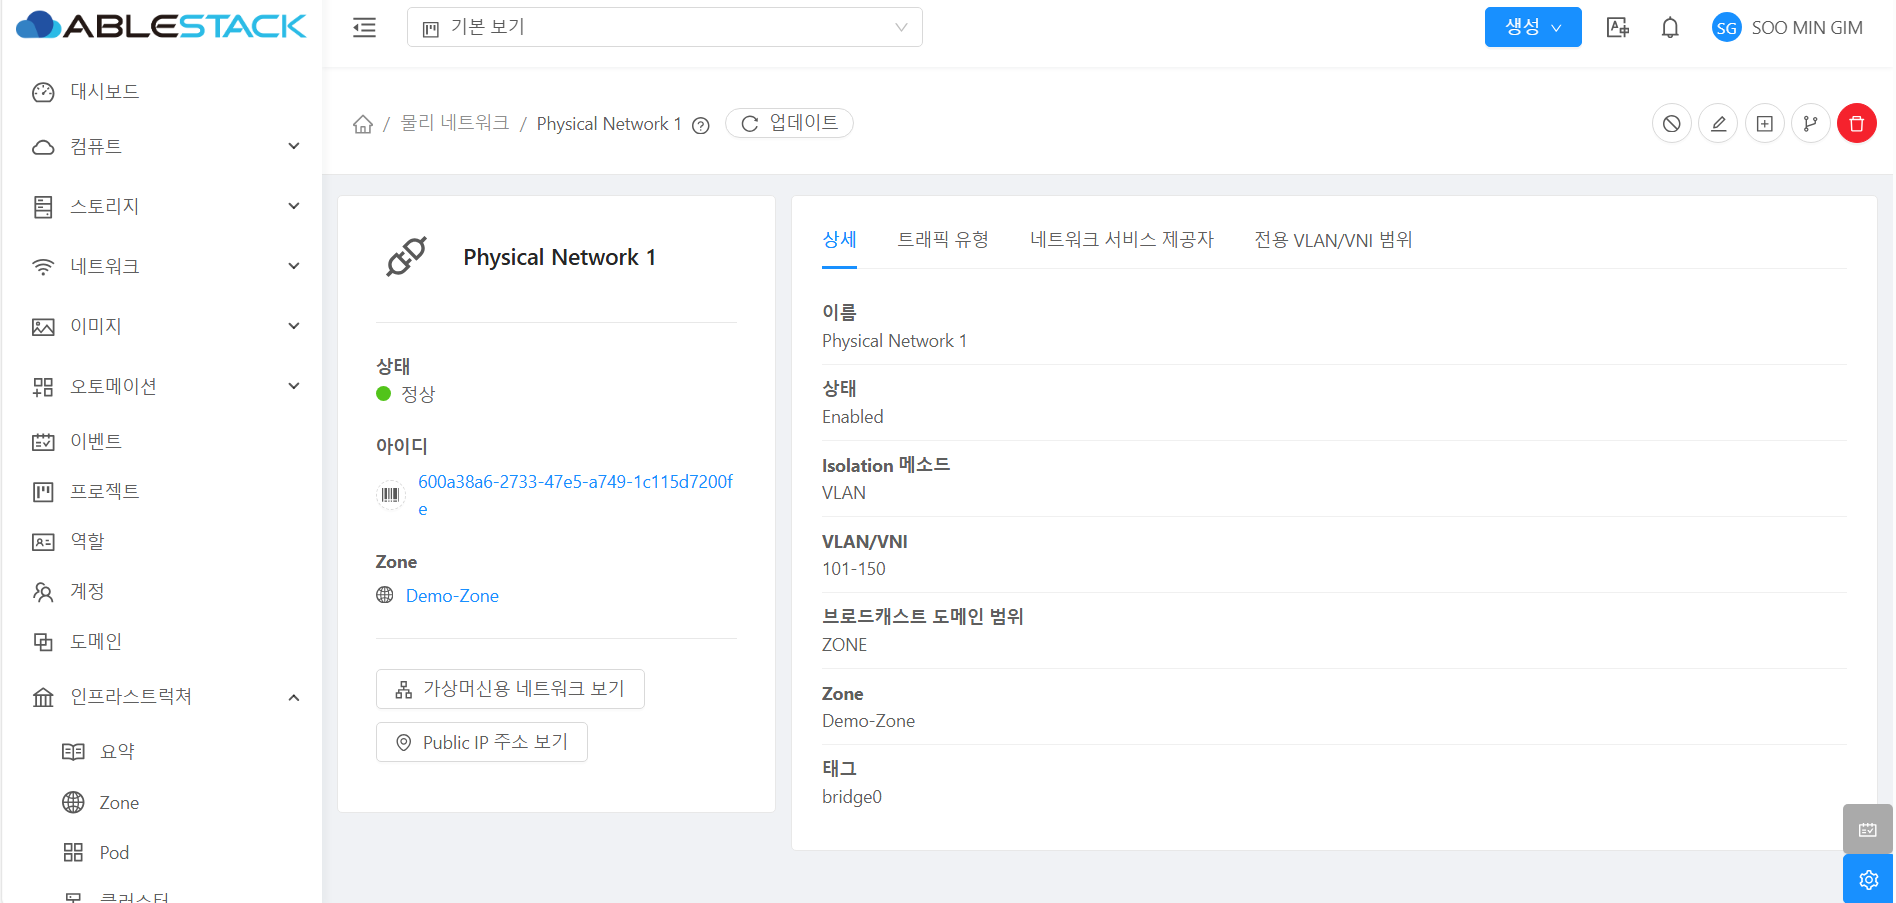
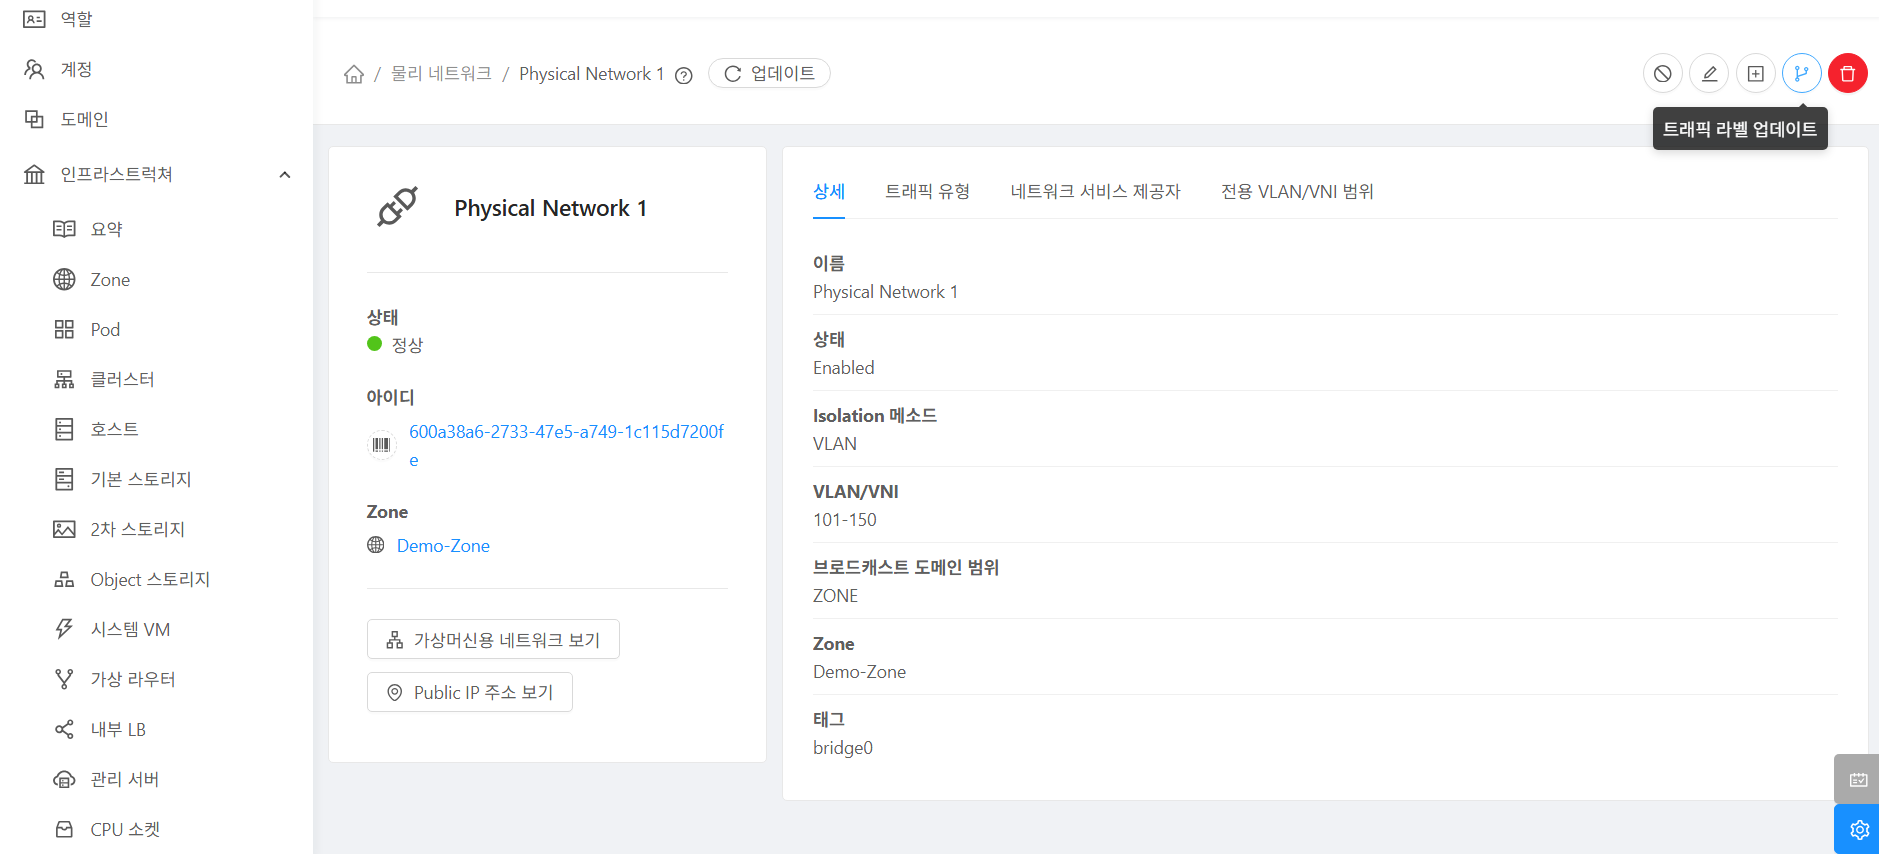
물리 네트워크 추가 수정

diff --git a/docs/admin-guide/mold/mold-admin-guide-infrastructure-zones.md b/docs/admin-guide/mold/mold-admin-guide-infrastructure-zones.md
@@ -286,30 +286,42 @@ Zone은 ABLESTACK 인프라의 자원을 관리하고 배치하는 기본 단위
 
     * **물리 네트워크 추가** 버튼을 클릭하여 볼륨 생성 및 추가 화면을 호출합니다.
 
-    ![physical network 추가 화면](../../assets/images/admin-guide/mold/infrastructure/zones/physical-network-add.png){ .imgCenter .imgBorder }
+    ![physical network 추가 화면2](../../assets/images/admin-guide/mold/infrastructure/zones/physical-network-add.png){ .imgCenter .imgBorder }
 
     * **이름:** 이름을 입력합니다.
     * **Isolation 메소드:** Isolation 메소드를 선택합니다.
     * **VLAN/VNI:** VLAN/VNI를 입력합니다.
-    * **태그:** 태그를 입력합니다. ==게스트 네트워크 추가시 반드시 추가해줍니다.==
+    * **태그:** 태그를 입력합니다.
     * **네트워크 속도:** 네트워크 속도를 입력합니다.
     * **브로드캐스트 도메인 범위:** 브로드캐스트 도메인 범위를 입력합니다.
     * **확인** 버튼을 클릭하여 Zone을 추가합니다.
 
-    ![Guest 네트워크 설정](../../assets/images/admin-guide/mold/infrastructure/zones/physical-network-add-guest.png){ .imgCenter .imgBorder }
+    ![Guest 네트워크 설정1](../../assets/images/admin-guide/mold/infrastructure/zones/physical-network-add-guest.png){ .imgCenter .imgBorder }
 
     * 생성된 물리네트워크로 들어가 트래픽 라벨을 업데이트 합니다.
 
-    ![Guest 네트워크 설정](../../assets/images/admin-guide/mold/infrastructure/zones/physical-network-add-guest-traffic-label.png){ .imgCenter .imgBorder }
+    ![Guest 네트워크 설정2](../../assets/images/admin-guide/mold/infrastructure/zones/physical-network-add-guest-traffic-label.png){ .imgCenter .imgBorder }
 
     * 트래픽 유형을 GUEST 로 설정합니다.
     * KVM 트래픽 라벨에 Cube 에서 추가한 bridge 명을 추가합니다.
 
-    ![Guest 네트워크 설정](../../assets/images/admin-guide/mold/infrastructure/zones/physical-network-add-guest-traffic-category.png){ .imgCenter .imgBorder }
+    ![Guest 네트워크 설정3](../../assets/images/admin-guide/mold/infrastructure/zones/physical-network-add-guest-traffic-category.png){ .imgCenter .imgBorder }
+
+    * 트래픽 유형 추가를 클릭합니다.
+
+    ![Guest 네트워크 설정4](../../assets/images/admin-guide/mold/infrastructure/zones/physical-network-add-guest-traffic-category2.png){ .imgCenter .imgBorder }
 
     * 트래픽 유형을 GUEST 로 설정합니다.
     * Isolation 메소드를 vlan 으로 선택합니다.
 
+    ![Guest 네트워크 설정5](../../assets/images/admin-guide/mold/infrastructure/zones/physical-network-add-guest-traffic-update.png){ .imgCenter .imgBorder }
+
+    * 물리 네트워크 업데이트를 클릭합니다.
+
+    ![Guest 네트워크 설정6](../../assets/images/admin-guide/mold/infrastructure/zones/physical-network-add-guest-traffic-update2.png){ .imgCenter .imgBorder }
+
+    * VLAN으로 나뉘어 있을 경우 VLAN 을 입력합니다.
+    * 해당 물리네크워크를 확인할 수있는 태그를 설정합니다.
     !!! info
         *추가한 물리네트워크를 이용하기 위해서는 [해당 물리네트워크의 태그를 단 네트워크 오퍼링을 생성](../mold/mold-admin-guide-offerings-network-offerings.md/#_1)해야 합니다. 
 
